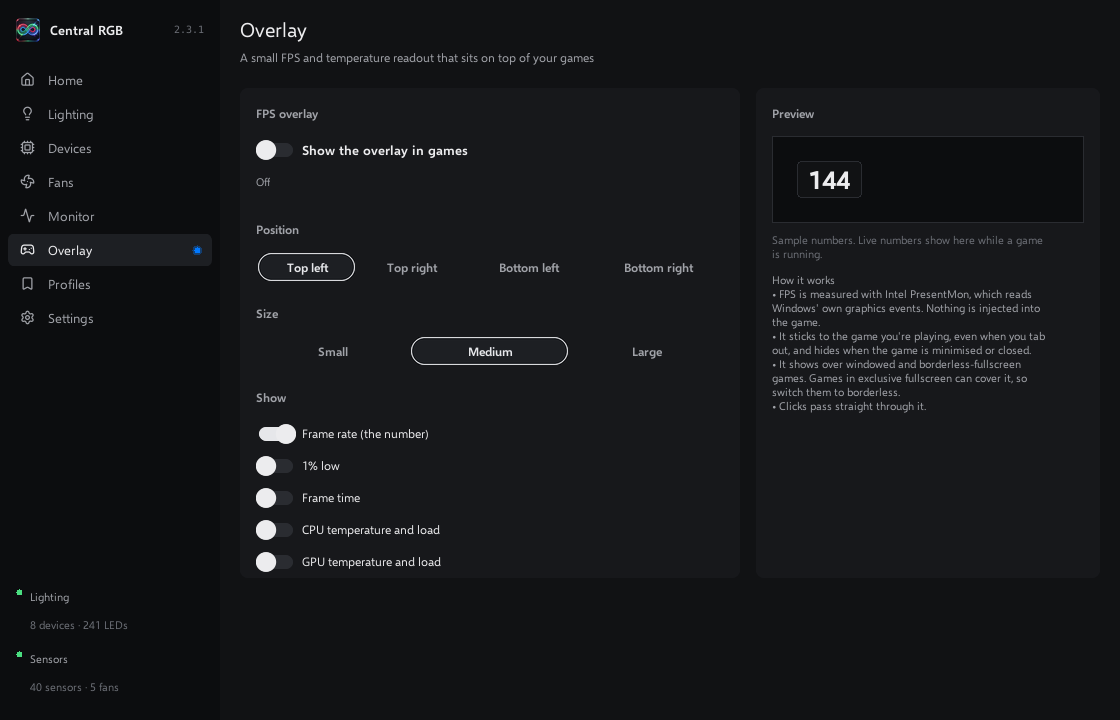
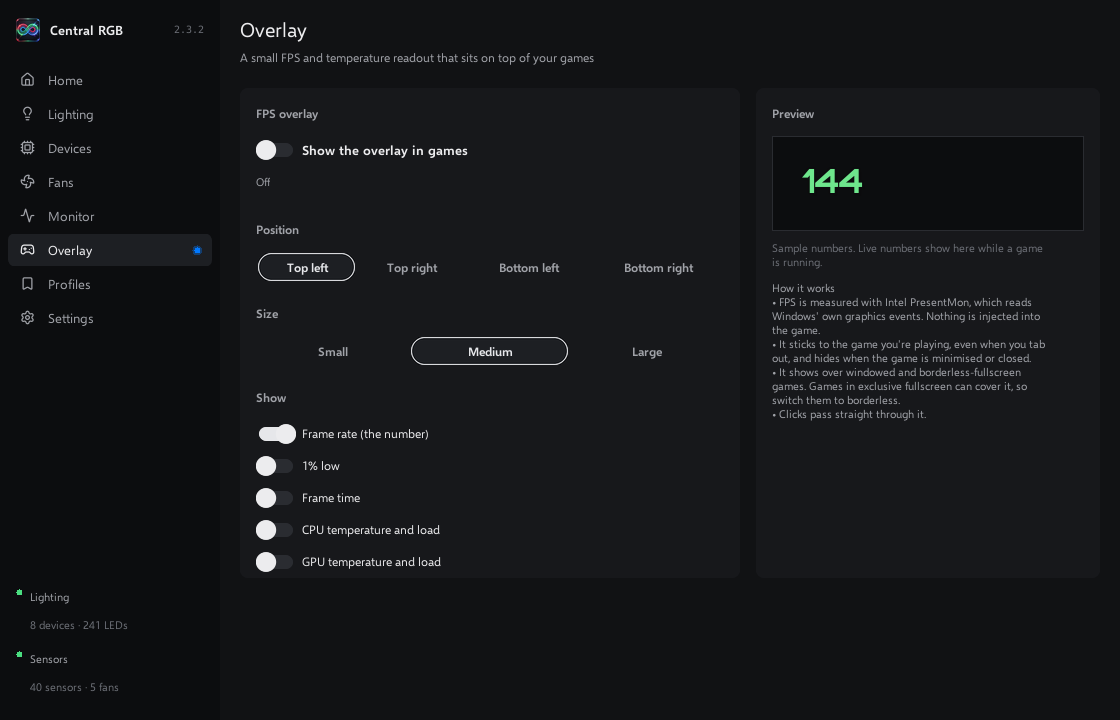
Version 2.3.3; Overlay screenshot shows the new counter

Changed region(s): [[0.6875, 0.3056, 0.9375, 0.5806], [0.7188, 0.2139, 0.7812, 0.275]]

diff --git a/rgb_engine.py b/rgb_engine.py
@@ -41,7 +41,7 @@ from openrgb.utils import DeviceType, ModeColors, RGBColor
 DeviceType._missing_ = classmethod(lambda cls, value: cls.UNKNOWN)
 
 APP_NAME = "Central RGB"
-APP_VERSION = "2.3.2"   # release builds overwrite this with the release tag
+APP_VERSION = "2.3.3"   # release builds overwrite this with the release tag
 SDK_HOST = "127.0.0.1"
 SDK_PORT = 6742
 RELEASES_PAGE = "https://openrgb.org/releases.html"
